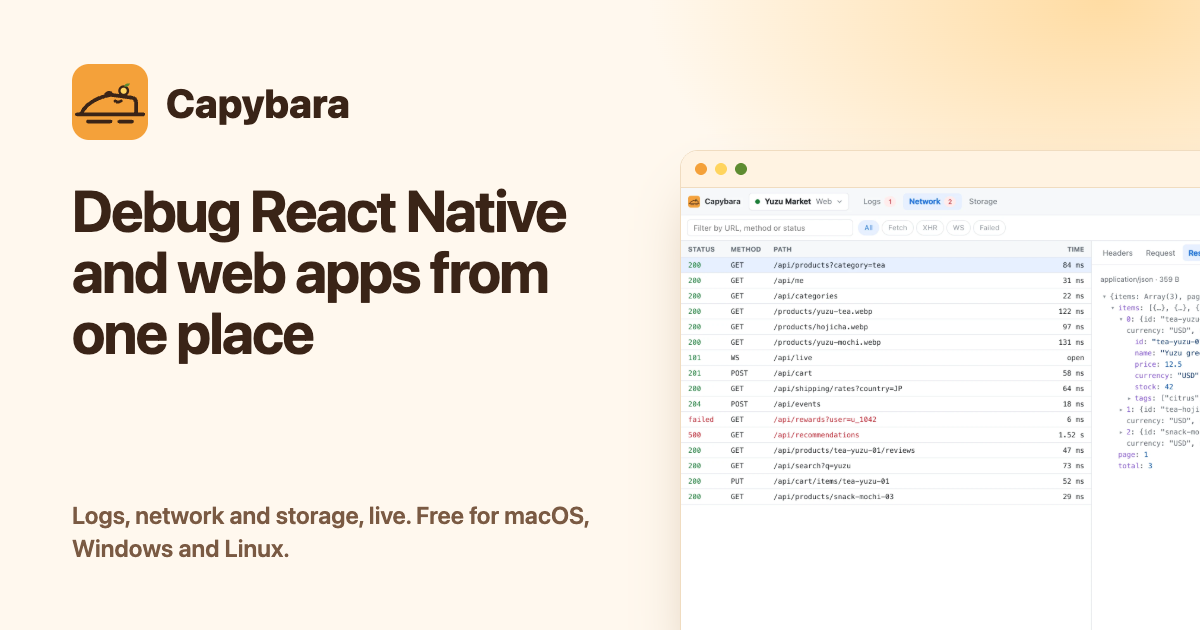
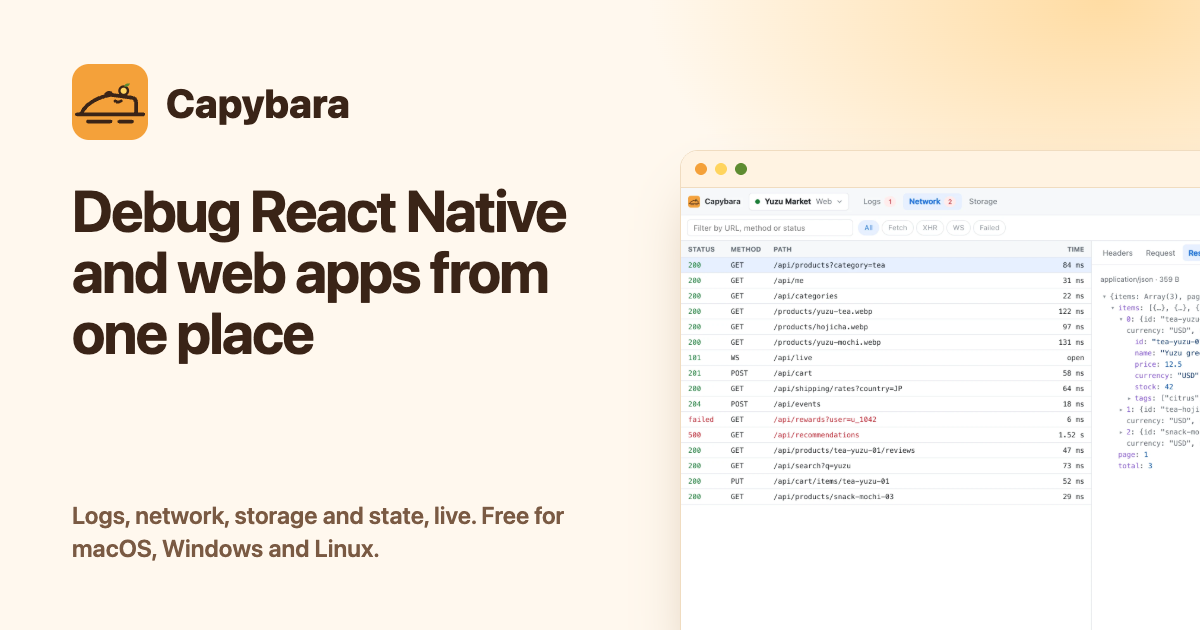
feat(website): show the State tab
A feature row with a screenshot of the State tab, state in the description, hero and link preview,
and the MCP card. The web setup now calls init() from a file the app imports first, as the README
does, since stores created before it are missed. The screenshot comes from a made-up app that
registers Redux, Zustand, TanStack Query, SWR and Context stores and answers the state commands.

Changed region(s): [[0.0617, 0.7841, 0.4933, 0.9048]]

diff --git a/website/index.html b/website/index.html
@@ -6,7 +6,7 @@
     <title>Capybara · Debug React Native and web apps from one place</title>
     <meta
       name="description"
-      content="Debug React Native and web apps from one place: logs, network (including WebSockets) and storage, streamed live to a local UI. Free and open source for macOS, Windows and Linux."
+      content="Debug React Native and web apps from one place: logs, network (including WebSockets), storage and state from Redux, Zustand, TanStack Query, SWR and React Context, streamed live to a local UI. Free and open source for macOS, Windows and Linux."
     />
     <meta name="color-scheme" content="light dark" />
     <link rel="icon" type="image/svg+xml" href="./src/assets/logo.svg" />
@@ -16,7 +16,7 @@
     <meta property="og:title" content="Capybara" />
     <meta
       property="og:description"
-      content="Debug React Native and web apps from one place: logs, network (including WebSockets) and storage, streamed live to a local UI."
+      content="Debug React Native and web apps from one place: logs, network (including WebSockets), storage and app state, streamed live to a local UI."
     />
     <meta property="og:image" content="https://capybara-devtools.chanieshop.com/og.png" />
     <meta name="twitter:card" content="summary_large_image" />
@@ -51,8 +51,8 @@
             <p class="eyebrow">Free and open source · macOS, Windows, Linux</p>
             <h1>Debug React Native and web apps from one place</h1>
             <p class="lead">
-              Logs, network (including WebSockets) and storage, streamed live from your app to a local UI. React Native 0.85 and
-              later needs no SDK.
+              Logs, network (including WebSockets), storage, and state from Redux, Zustand, TanStack Query, SWR and React Context,
+              streamed live from your app to a local UI. On React Native 0.85 and later, logs, network and storage need no SDK.
             </p>
             <div class="actions">
               <a class="button primary" id="hero-download" href="#download">Download</a>
@@ -113,6 +113,33 @@
                     height="620"
                     loading="lazy"
                     alt="A failed request explained: blocked by CORS because the response has no Access-Control-Allow-Origin header."
+                  />
+                </picture>
+              </figure>
+            </article>
+
+            <article class="showcase-row">
+              <div class="showcase-text">
+                <h3>See your app's state, change by change</h3>
+                <p>
+                  Redux, Zustand, TanStack Query, SWR and React Context in one tab: every action with what it changed, the current
+                  state, and query caches you can refetch or invalidate. Redux Toolkit, zustand's <code>devtools()</code> and
+                  Context need no extra code.
+                </p>
+              </div>
+              <figure class="window">
+                <picture>
+                  <source
+                    media="(prefers-color-scheme: dark)"
+                    srcset="./src/assets/screenshots/state-dark.webp 1x, ./src/assets/screenshots/state-dark@2x.webp 2x"
+                  />
+                  <img
+                    src="./src/assets/screenshots/state-light.webp"
+                    srcset="./src/assets/screenshots/state-light@2x.webp 2x"
+                    width="1280"
+                    height="620"
+                    loading="lazy"
+                    alt="The State tab: a Redux store's actions, and what the selected cart/addItem action changed."
                   />
                 </picture>
               </figure>
@@ -183,8 +210,8 @@
             <article class="feature">
               <h3>Ask your AI assistant</h3>
               <p>
-                Capybara's MCP server lets Claude Code, Cursor and other MCP clients read and filter what it recorded, with
-                credentials hidden.
+                Capybara's MCP server lets Claude Code, Cursor and other MCP clients read and filter logs, requests, storage and
+                state, with credentials hidden.
               </p>
             </article>
           </div>
@@ -226,7 +253,10 @@
                   <h3>Web apps</h3>
                   <span class="tag npm-soon">Coming to npm</span>
                 </div>
-                <p>Install the SDK and call <code>init()</code> before the rest of your app. In Next.js, put it in <code>instrumentation-client.ts</code>.</p>
+                <p>
+                  Install the SDK and call <code>init()</code> in a file your app imports first, so it runs before your stores load.
+                  In Next.js, put it in <code>instrumentation-client.ts</code>.
+                </p>
               </div>
               <div class="step-body">
                 <div class="code-block">
@@ -234,7 +264,8 @@
                   <button type="button" class="copy-button" data-copy>Copy</button>
                 </div>
                 <div class="code-block">
-                  <pre><code>import { init } from '@capybara-devtools/web';
+                  <pre><code>// src/capybara.ts, the first import of main.tsx
+import { init } from '@capybara-devtools/web';
 
 if (import.meta.env.DEV) init({ appName: 'My web app' });</code></pre>
                   <button type="button" class="copy-button" data-copy>Copy</button>
@@ -258,8 +289,8 @@ if (import.meta.env.DEV) init({ appName: 'My web app' });</code></pre>
             </article>
           </div>
           <p class="note centered">
-            Older React Native, or want to edit storage from Capybara? Add <code>@capybara-devtools/react-native</code>; the
-            <a href="https://github.com/lhphuc99/capybara#readme">README</a> shows how.
+            Older React Native, editing storage, or state in a React Native app? Add <code>@capybara-devtools/react-native</code>;
+            the <a href="https://github.com/lhphuc99/capybara#readme">README</a> shows how.
             <span class="npm-soon-note">Until the packages are on npm, <a href="https://github.com/lhphuc99/capybara#quick-start-from-this-repo">run Capybara from source</a>.</span>
           </p>
           <p class="sr-only" aria-live="polite" id="copy-status"></p>

diff --git a/website/scripts/og.html b/website/scripts/og.html
@@ -89,7 +89,7 @@
   <body>
     <div class="brand"><img src="../src/assets/logo.svg" alt="" />Capybara</div>
     <h1>Debug React Native and web apps from one place</h1>
-    <p>Logs, network and storage, live. Free for macOS, Windows and Linux.</p>
+    <p>Logs, network, storage and state, live. Free for macOS, Windows and Linux.</p>
     <div class="window">
       <div class="bar"><span></span><span></span><span></span></div>
       <img src="../src/assets/screenshots/network-light@2x.webp" alt="" />
